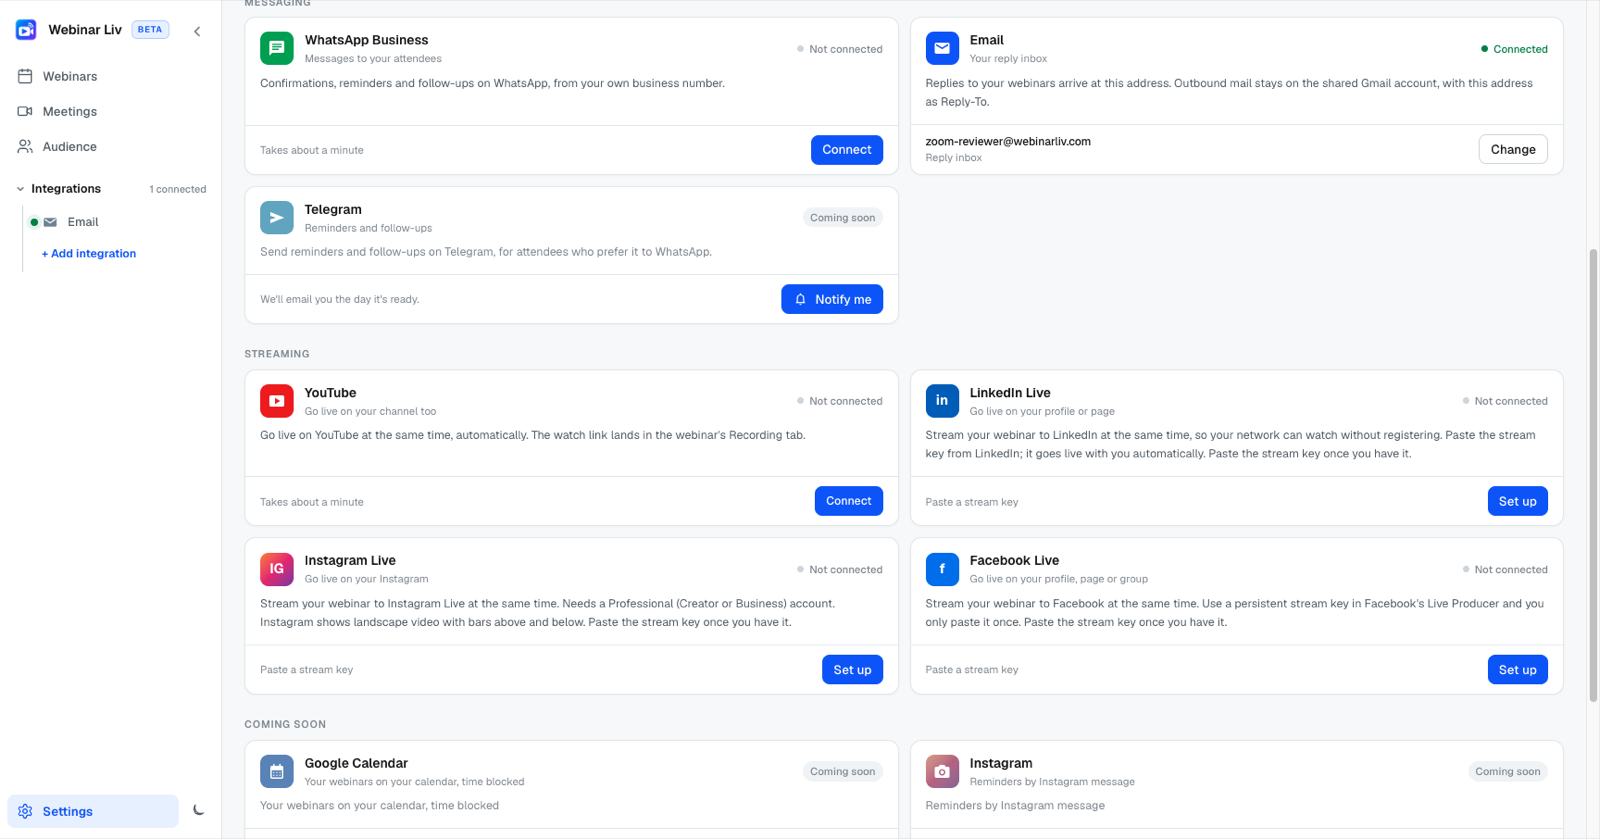
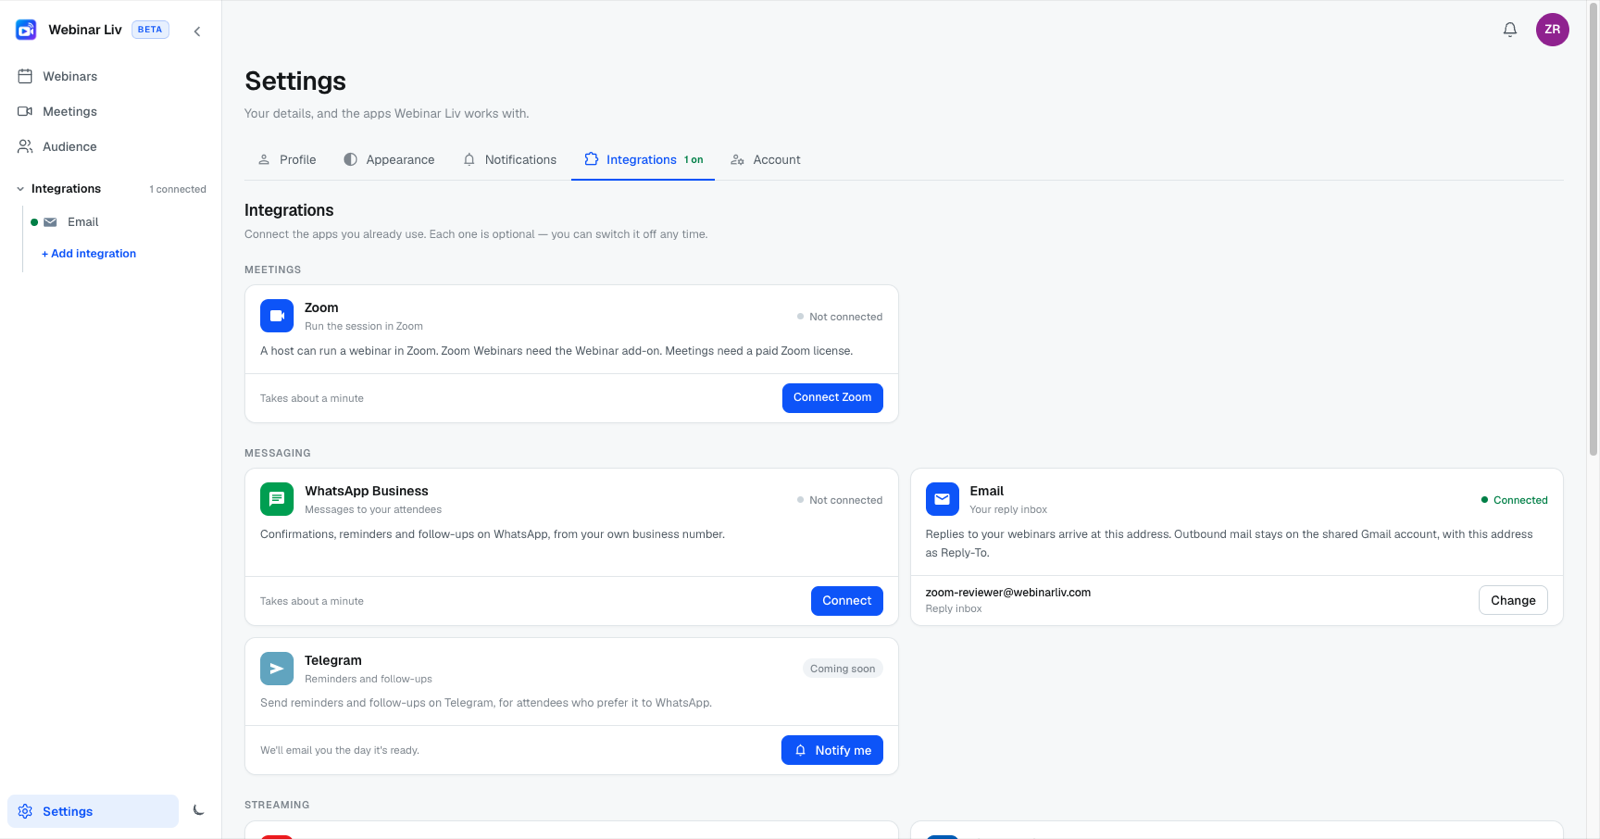
Zoom test plan: fix disconnect screenshots, explain IDs and walk-ins
Case I now shows the Zoom card itself before and after disconnecting.
Captions explain that the host page shows Webinar Liv's own webinar ID,
and why the free-account Results show 1 attended next to 2 registrants
who didn't join (a shared-link walk-in). Prerequisites now say what a
paid Zoom account adds and that a Basic account works with the shared link.

diff --git a/web/app/zoom/test-plan/page.tsx b/web/app/zoom/test-plan/page.tsx
@@ -127,7 +127,8 @@ const CASES: TestCase[] = [
       {
         file: "b-webinar-page.png",
         alt: "The host page of the scheduled webinar Zoom review — test session. It says This session runs in Zoom. Go live opens Zoom as the host. It ends in Zoom. It shows the share link, a Go live button and a Webinar scheduled message.",
-        caption: "The webinar in Webinar Liv.",
+        caption:
+          "The webinar in Webinar Liv. The ID on the host page is Webinar Liv's webinar ID; the Zoom meeting number is shown in Zoom.",
         width: W,
         height: 923,
       },
@@ -274,7 +275,8 @@ const CASES: TestCase[] = [
       {
         file: "f-results.png",
         alt: "Webinar Liv Results for Zoom review — test session after the meeting ended in Zoom. Status Completed, 2 registered, 1 attended, 5 minute average watch time.",
-        caption: "Results after the meeting ended in Zoom.",
+        caption:
+          "Results after the meeting ended in Zoom. On this free account the attendee joined through the meeting's shared link without an email, so Zoom reported them as a walk-in and they were not matched to their registration: 1 attended, while the 2 registrants show as didn't join. With a paid account's personal links, attendees are matched to their registration. The ID on the host page is Webinar Liv's webinar ID; the Zoom meeting number is shown in Zoom.",
         width: W,
         height: 839,
       },
@@ -372,16 +374,16 @@ const CASES: TestCase[] = [
     scopes: [],
     shots: [
       {
-        file: "i-before.png",
-        alt: "Webinar Liv Settings, Integrations, before disconnecting: the sidebar lists Zoom and Email under Integrations, 2 connected.",
-        caption: "Before: Zoom listed as connected.",
+        file: "a-zoom-connected.png",
+        alt: "Settings, Integrations tab before disconnecting. The Zoom card says Connected, shows the Zoom account webinarliv@gmail.com and a Disconnect button.",
+        caption: "Before: Zoom connected (as in case A).",
         width: W,
-        height: 839,
+        height: 923,
       },
       {
         file: "i-after.png",
-        alt: "Webinar Liv Settings, Integrations, after disconnecting: the sidebar lists only Email under Integrations, 1 connected.",
-        caption: "After: Zoom no longer connected.",
+        alt: "Settings, Integrations tab after disconnecting. The Zoom card says Not connected and shows the Connect Zoom button again; the sidebar lists only Email, 1 connected.",
+        caption: "After: the card shows Connect Zoom again.",
         width: W,
         height: 839,
       },
@@ -511,10 +513,15 @@ export default function ZoomTestPlanPage() {
       <ul>
         <li>The Webinar Liv test account (see Test credentials).</li>
         <li>
-          A Zoom test account on Pro or above. Registration, which gives each
-          registrant a personal join link, needs a paid Zoom plan.
+          A Zoom test account. A paid Zoom account (Pro or above) is needed
+          for personal per-registrant join links and the attendance report. A
+          Basic account works for meetings, with the meeting&apos;s shared join
+          link (see <a href="#free-zoom">Free (Basic) Zoom accounts</a>).
         </li>
-        <li>For case G only: the Zoom Webinars add-on on that Zoom account.</li>
+        <li>
+          For case G only: Zoom Webinars need the Webinar add-on on that Zoom
+          account.
+        </li>
         <li>A second browser or a private window to act as the attendee.</li>
       </ul>
 
